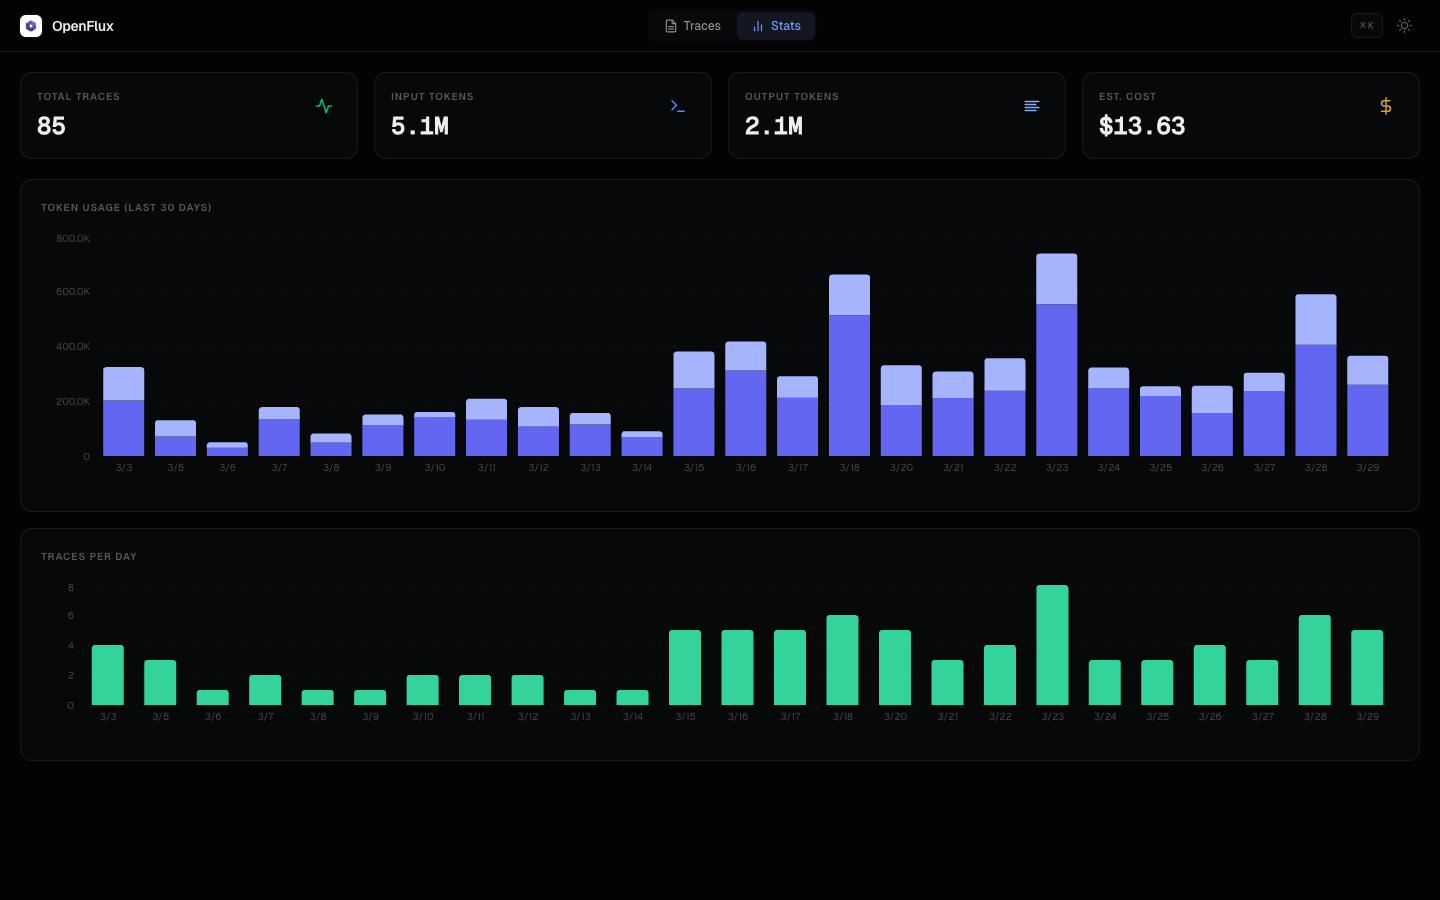
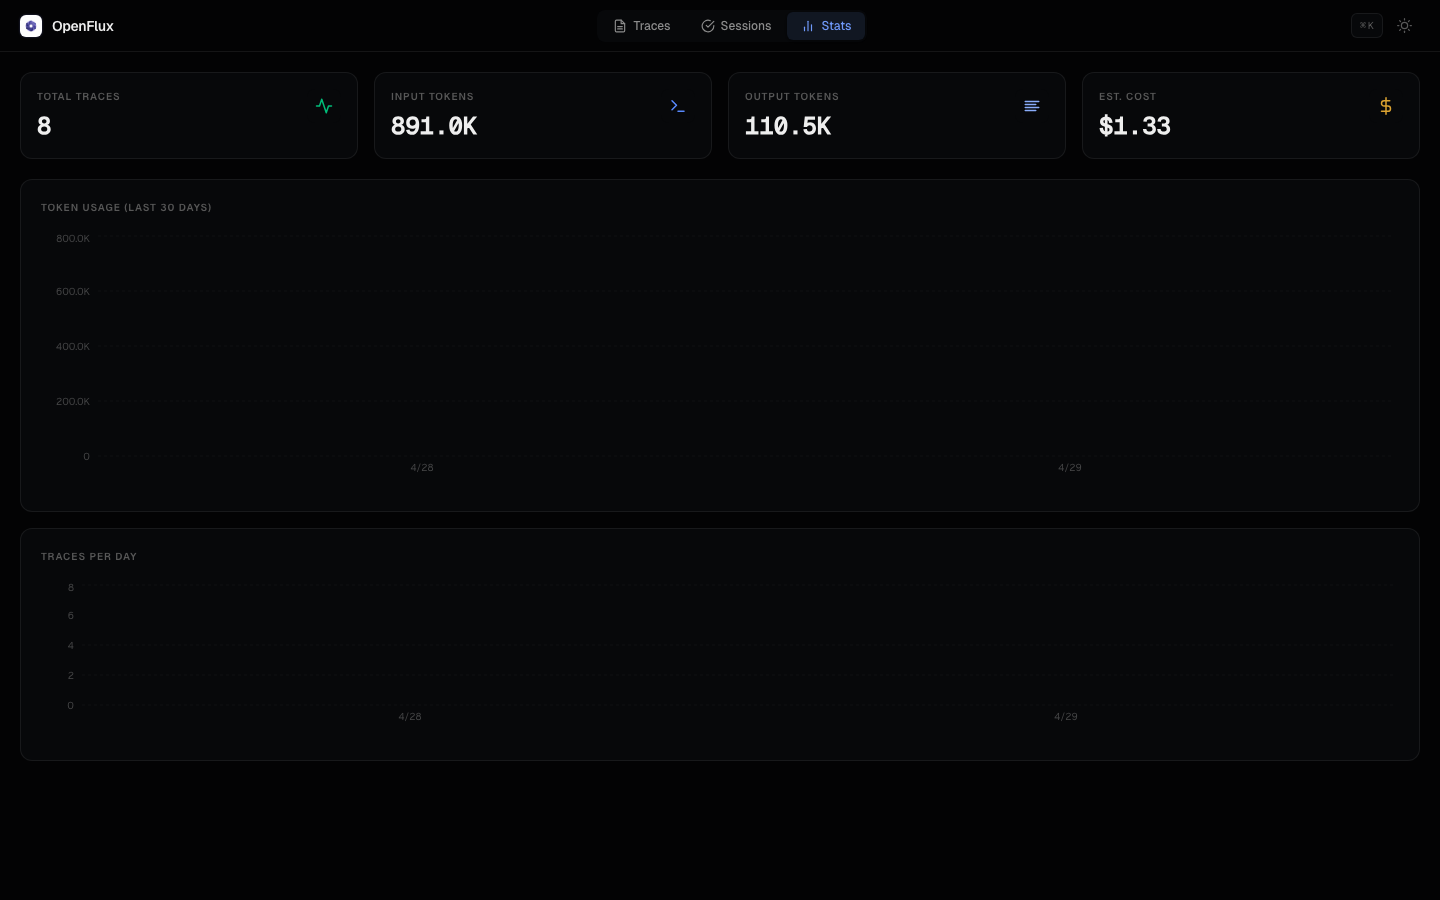
docs: real Sessions tab screenshot + demo data seeder (#17)
The Sessions tab was the headline of PR #9 but the README still showed
the Traces tab as the hero image. Captured a real screenshot from a
seeded demo database (8 representative sessions: 5 SHIPPED, 3 BROKE
TESTS) and added it as the first dashboard image.

scripts/seed_demo_data.py creates a deterministic demo database for
screenshots and screencasts so this can be re-run without a private
~/.openflux/traces.db. Run with:

    OPENFLUX_DB_PATH=/tmp/demo-traces.db uv run scripts/seed_demo_data.py

Also re-captured insights/stats/traces dark-mode against the seeded
DB so they show populated content instead of empty states.

diff --git a/scripts/seed_demo_data.py b/scripts/seed_demo_data.py
@@ -1,0 +1,173 @@
+#!/usr/bin/env python3
+"""Seed a demo SQLite database with realistic Claude Code sessions
++ outcomes so the dashboard screenshots have content to show.
+
+Usage:
+    OPENFLUX_DB_PATH=/tmp/demo-traces.db uv run scripts/seed_demo_data.py
+
+Then start the server pointed at the same path and capture:
+    OPENFLUX_DB_PATH=/tmp/demo-traces.db uv run scripts/capture_assets.py
+"""
+
+from __future__ import annotations
+
+import os
+import secrets
+from datetime import UTC, datetime, timedelta
+from pathlib import Path
+
+from openflux.schema import TokenUsage, Trace
+from openflux.sinks.sqlite import SQLiteSink
+
+SESSIONS = [
+    {
+        "task": "fix flaky retry logic in payment webhook",
+        "model": "claude-opus-4-7",
+        "in_tok": 142_000,
+        "out_tok": 18_500,
+        "dur_ms": 1_240_000,
+        "lines_added": 127,
+        "lines_removed": 34,
+        "files_changed": 5,
+        "tests_exit_code": 0,
+        "tests_passed": 1,
+    },
+    {
+        "task": "add pagination to /api/users endpoint",
+        "model": "claude-sonnet-4-6",
+        "in_tok": 41_000,
+        "out_tok": 6_200,
+        "dur_ms": 480_000,
+        "lines_added": 89,
+        "lines_removed": 12,
+        "files_changed": 3,
+        "tests_exit_code": 1,
+        "tests_passed": 0,
+    },
+    {
+        "task": "migrate Postgres connection pool to pgbouncer",
+        "model": "claude-opus-4-7",
+        "in_tok": 218_000,
+        "out_tok": 24_400,
+        "dur_ms": 2_100_000,
+        "lines_added": 312,
+        "lines_removed": 89,
+        "files_changed": 11,
+        "tests_exit_code": 0,
+        "tests_passed": 1,
+    },
+    {
+        "task": "rename UserService methods to snake_case",
+        "model": "claude-haiku-4-5-20251001",
+        "in_tok": 28_000,
+        "out_tok": 3_100,
+        "dur_ms": 180_000,
+        "lines_added": 47,
+        "lines_removed": 47,
+        "files_changed": 8,
+        "tests_exit_code": 0,
+        "tests_passed": 1,
+    },
+    {
+        "task": "implement OAuth refresh token rotation",
+        "model": "claude-opus-4-7",
+        "in_tok": 187_000,
+        "out_tok": 22_800,
+        "dur_ms": 1_680_000,
+        "lines_added": 203,
+        "lines_removed": 56,
+        "files_changed": 7,
+        "tests_exit_code": 1,
+        "tests_passed": 0,
+    },
+    {
+        "task": "fix race condition in WebSocket reconnect",
+        "model": "claude-sonnet-4-6",
+        "in_tok": 67_000,
+        "out_tok": 8_900,
+        "dur_ms": 720_000,
+        "lines_added": 64,
+        "lines_removed": 28,
+        "files_changed": 2,
+        "tests_exit_code": 0,
+        "tests_passed": 1,
+    },
+    {
+        "task": "add rate limiting to auth endpoints",
+        "model": "claude-sonnet-4-6",
+        "in_tok": 52_000,
+        "out_tok": 7_400,
+        "dur_ms": 540_000,
+        "lines_added": 78,
+        "lines_removed": 8,
+        "files_changed": 4,
+        "tests_exit_code": 0,
+        "tests_passed": 1,
+    },
+    {
+        "task": "refactor CartService to use DI container",
+        "model": "claude-opus-4-7",
+        "in_tok": 156_000,
+        "out_tok": 19_200,
+        "dur_ms": 1_440_000,
+        "lines_added": 244,
+        "lines_removed": 178,
+        "files_changed": 14,
+        "tests_exit_code": 1,
+        "tests_passed": 0,
+    },
+]
+
+
+def seed() -> None:
+    db_path = os.environ.get("OPENFLUX_DB_PATH")
+    if not db_path:
+        msg = "set OPENFLUX_DB_PATH first"
+        raise SystemExit(msg)
+
+    target = Path(db_path)
+    if target.exists():
+        target.unlink()
+    target.parent.mkdir(parents=True, exist_ok=True)
+
+    sink = SQLiteSink(path=target)
+    base = datetime.now(UTC) - timedelta(days=2)
+
+    for i, s in enumerate(SESSIONS):
+        ts = base + timedelta(hours=i * 5, minutes=secrets.randbelow(30))
+        session_id = f"sess-{secrets.token_hex(8)}"
+        trace = Trace(
+            id=f"trc-{secrets.token_hex(6)}",
+            timestamp=ts.strftime("%Y-%m-%dT%H:%M:%SZ"),
+            agent="claude-code",
+            session_id=session_id,
+            task=s["task"],
+            model=s["model"],
+            duration_ms=s["dur_ms"],
+            turn_count=12 + secrets.randbelow(40),
+            token_usage=TokenUsage(
+                input_tokens=s["in_tok"],
+                output_tokens=s["out_tok"],
+            ),
+            status="completed",
+        )
+        sink.write(trace)
+        sink.record_outcome(
+            session_id=session_id,
+            agent="claude-code",
+            captured_at=ts.strftime("%Y-%m-%dT%H:%M:%SZ"),
+            start_sha=secrets.token_hex(20),
+            end_sha=secrets.token_hex(20),
+            lines_added=s["lines_added"],
+            lines_removed=s["lines_removed"],
+            files_changed=s["files_changed"],
+            tests_exit_code=s["tests_exit_code"],
+            tests_passed=bool(s["tests_passed"]),
+        )
+
+    sink.close()
+    print(f"seeded {len(SESSIONS)} sessions + outcomes into {target}")
+
+
+if __name__ == "__main__":
+    seed()

diff --git a/README.md b/README.md
@@ -65,6 +65,12 @@ The dashboard has three tabs:
 A fourth Insights tab (cost anomalies, cache-hit ratio, daily burn) is on the roadmap.
 
 <p align="center">
+  <img src="assets/screenshots/sessions-dark.png" width="100%" alt="Sessions: did this session ship working code?">
+</p>
+
+**Sessions tab** — every Claude Code session, ranked by recency. The `OUTCOME` column says `SHIPPED` or `BROKE TESTS` based on the test command result; `COST` is computed from per-model rates; `LINES` is the git diff against the start sha; `DIFF` shows `start_sha → end_sha`. Set `OPENFLUX_TEST_CMD="pytest -q"` (or your own) to populate the tests column.
+
+<p align="center">
   <img src="assets/screenshots/traces-dark.png" width="100%" alt="Trace Explorer">
 </p>
 
